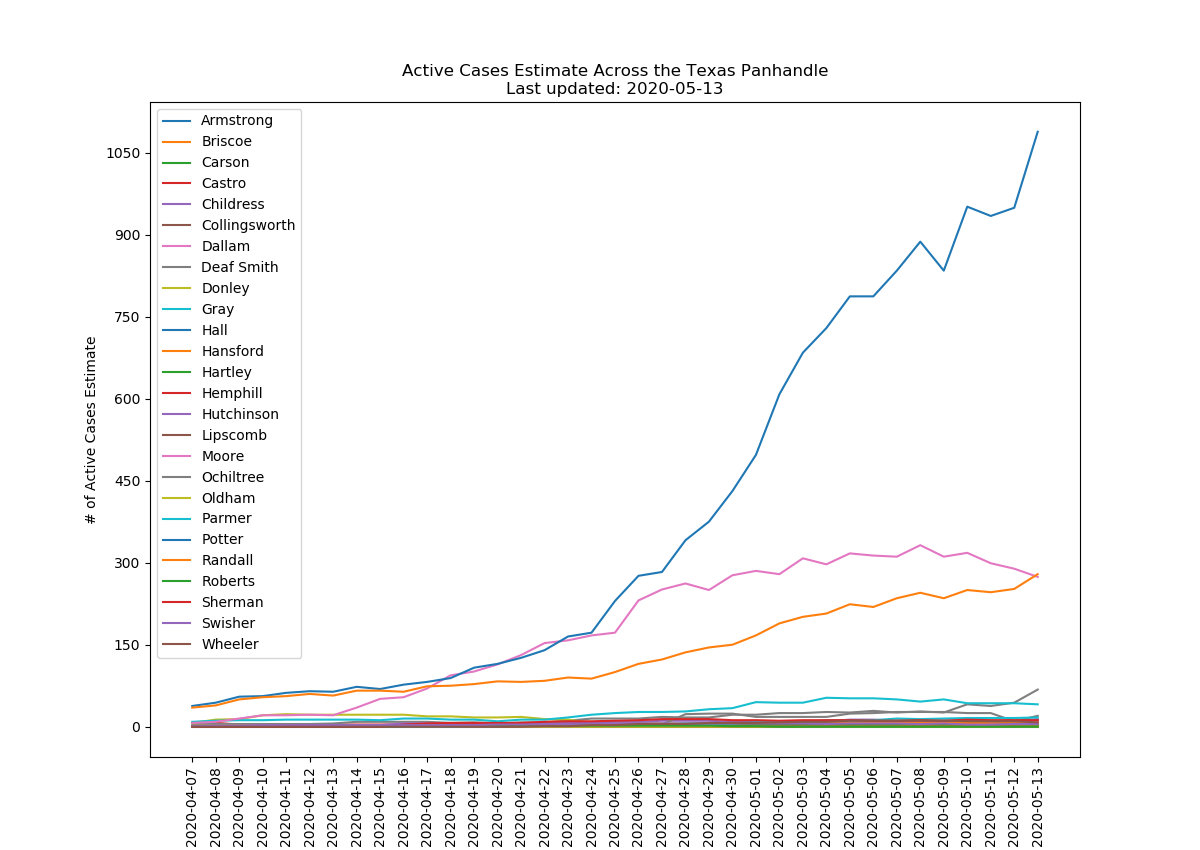
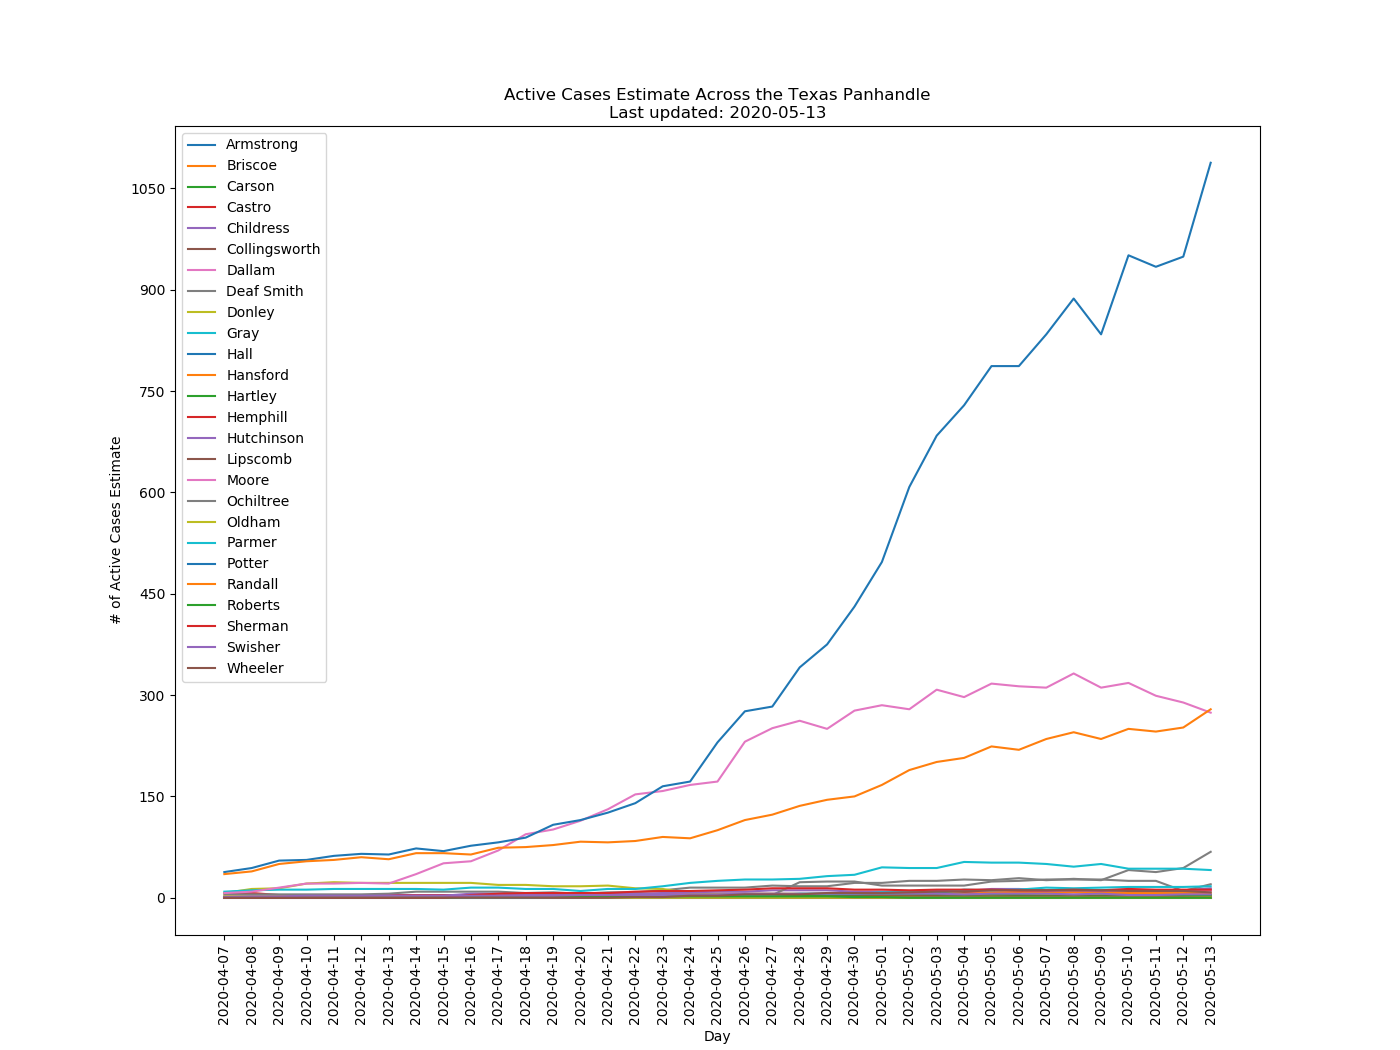
Larger Graphs

diff --git a/src_dshs/graph.py b/src_dshs/graph.py
@@ -66,7 +66,7 @@ def main():
 	for d_obj in df_list:
 		counties = list(variables.counties)
 
-		m = plt.figure(d_obj.figure, figsize=(12.0, 8.5))
+		m = plt.figure(d_obj.figure, figsize=variables.figSize)
 		ax = m.gca()
 		ax.yaxis.set_major_locator(MaxNLocator(integer=True))
 
@@ -97,7 +97,7 @@ def main():
 	for county in variables.counties:
 		try:
 			active_df[county]
-			m = plt.figure("Active Cases Estimate for " + county, figsize=(12.0, 8.5))
+			m = plt.figure("Active Cases Estimate for " + county, figsize=variables.figSize)
 			ax = m.gca()
 			ax.yaxis.set_major_locator(MaxNLocator(integer=True))
 
@@ -119,7 +119,7 @@ def main():
 	for county in counties:
 		try:
 			case_df[county]
-			m = plt.figure("Case Count for " + county, figsize=(12.0, 8.5))
+			m = plt.figure("Case Count for " + county, figsize=variables.figSize)
 			ax = m.gca()
 			ax.yaxis.set_major_locator(MaxNLocator(integer=True))
 
@@ -141,7 +141,7 @@ def main():
 	for county in counties:
 		try:
 			fatality_df[county]
-			m = plt.figure("Fatalities for " + county, figsize=(12.0, 8.5))
+			m = plt.figure("Fatalities for " + county, figsize=variables.figSize)
 			ax = m.gca()
 			ax.yaxis.set_major_locator(MaxNLocator(integer=True))
 
@@ -243,7 +243,7 @@ def main():
 	]
 
 	for df in df_list:
-		m = plt.figure(df.figure, figsize=(12.0, 8.5))
+		m = plt.figure(df.figure, figsize=variables.figSize)
 		ax = m.gca()
 		ax.yaxis.set_major_locator(MaxNLocator(integer=True))
 
@@ -258,7 +258,7 @@ def main():
 		plt.savefig("png/" + df.figure.replace(' ', '') + ".png")
 
 	for df in df_list:
-		m = plt.figure(df.figure + " Bar", figsize=(12.0, 8.5))
+		m = plt.figure(df.figure + " Bar", figsize=variables.figSize)
 		ax = m.gca()
 		ax.yaxis.set_major_locator(MaxNLocator(integer=True))
 
@@ -303,7 +303,7 @@ def main():
 	for county in headers:
 		try:
 			recoveries[county]
-			m = plt.figure("Recoveries: " + county, figsize=(12.0, 8.5))
+			m = plt.figure("Recoveries: " + county, figsize=variables.figSize)
 			ax = m.gca()
 			ax.yaxis.set_major_locator(MaxNLocator(integer=True))
 
@@ -319,7 +319,7 @@ def main():
 		except:
 			print("County not found: " + county)
 
-	m = plt.figure("Recoveries for the Texas Panhandle", figsize=(12.0, 8.5))
+	m = plt.figure("Recoveries for the Texas Panhandle", figsize=variables.figSize)
 	ax = m.gca()
 	ax.yaxis.set_major_locator(MaxNLocator(integer=True))
 
@@ -338,7 +338,7 @@ def main():
 	##############################################################################
 	# Fatalities bar graph
 	##############################################################################
-	plt.figure("Fatalities by County", figsize=(12.0, 8.5))
+	plt.figure("Fatalities by County", figsize=variables.figSize)
 	ax = m.gca()
 	ax.yaxis.set_major_locator(MaxNLocator(integer=True))
 	plt.xlabel("County")
@@ -352,7 +352,7 @@ def main():
 	##############################################################################
 	# Cases bar graph
 	##############################################################################
-	plt.figure("Cases by County", figsize=(12.0, 8.5))
+	plt.figure("Cases by County", figsize=variables.figSize)
 	ax = m.gca()
 	ax.yaxis.set_major_locator(MaxNLocator(integer=True))
 	plt.xlabel("County")
@@ -401,7 +401,7 @@ def main():
 	##############################################################################
 	# Graph number of new of cases per day
 	##############################################################################
-	m = plt.figure("New Cases Bar", figsize=(12.0, 8.5))
+	m = plt.figure("New Cases Bar", figsize=variables.figSize)
 	ax = m.gca()
 	ax.yaxis.set_major_locator(MaxNLocator(integer=True))
 
@@ -418,7 +418,7 @@ def main():
 	plt.savefig("graphs/NewCasesBar.png")
 	plt.savefig("png/NewCasesBar.png")
 
-	m = plt.figure("New Cases", figsize=(12.0, 8.5))
+	m = plt.figure("New Cases", figsize=variables.figSize)
 	ax = m.gca()
 	ax.yaxis.set_major_locator(MaxNLocator(integer=True))
 
@@ -438,7 +438,7 @@ def main():
 	for county in variables.counties:
 		try:
 			new_df[county]
-			m = plt.figure("New Cases: " + county, figsize=(12.0, 8.5))
+			m = plt.figure("New Cases: " + county, figsize=variables.figSize)
 			ax = m.gca()
 			ax.yaxis.set_major_locator(MaxNLocator(integer=True))
 
@@ -457,7 +457,7 @@ def main():
 	for county in variables.counties:
 		try:
 			new_df[county]
-			m = plt.figure("New Cases: " + county + " Bar", figsize=(12.0, 8.5))
+			m = plt.figure("New Cases: " + county + " Bar", figsize=variables.figSize)
 			ax = m.gca()
 			ax.yaxis.set_major_locator(MaxNLocator(integer=True))
 

diff --git a/src_dshs/variables.py b/src_dshs/variables.py
@@ -7,3 +7,5 @@ x = [390,400,510,150,630,630,90,90,520,390,520,380,90,630,380,620,260,510,90,50,
 y = [490,620,345,620,620,490,65,490,490,345,620,65,200,200,200,65,200,65,345,620,350,490,200,65,620,345]
 
 MULTIPLIER = 100
+
+figSize = (14.0, 10.5)
